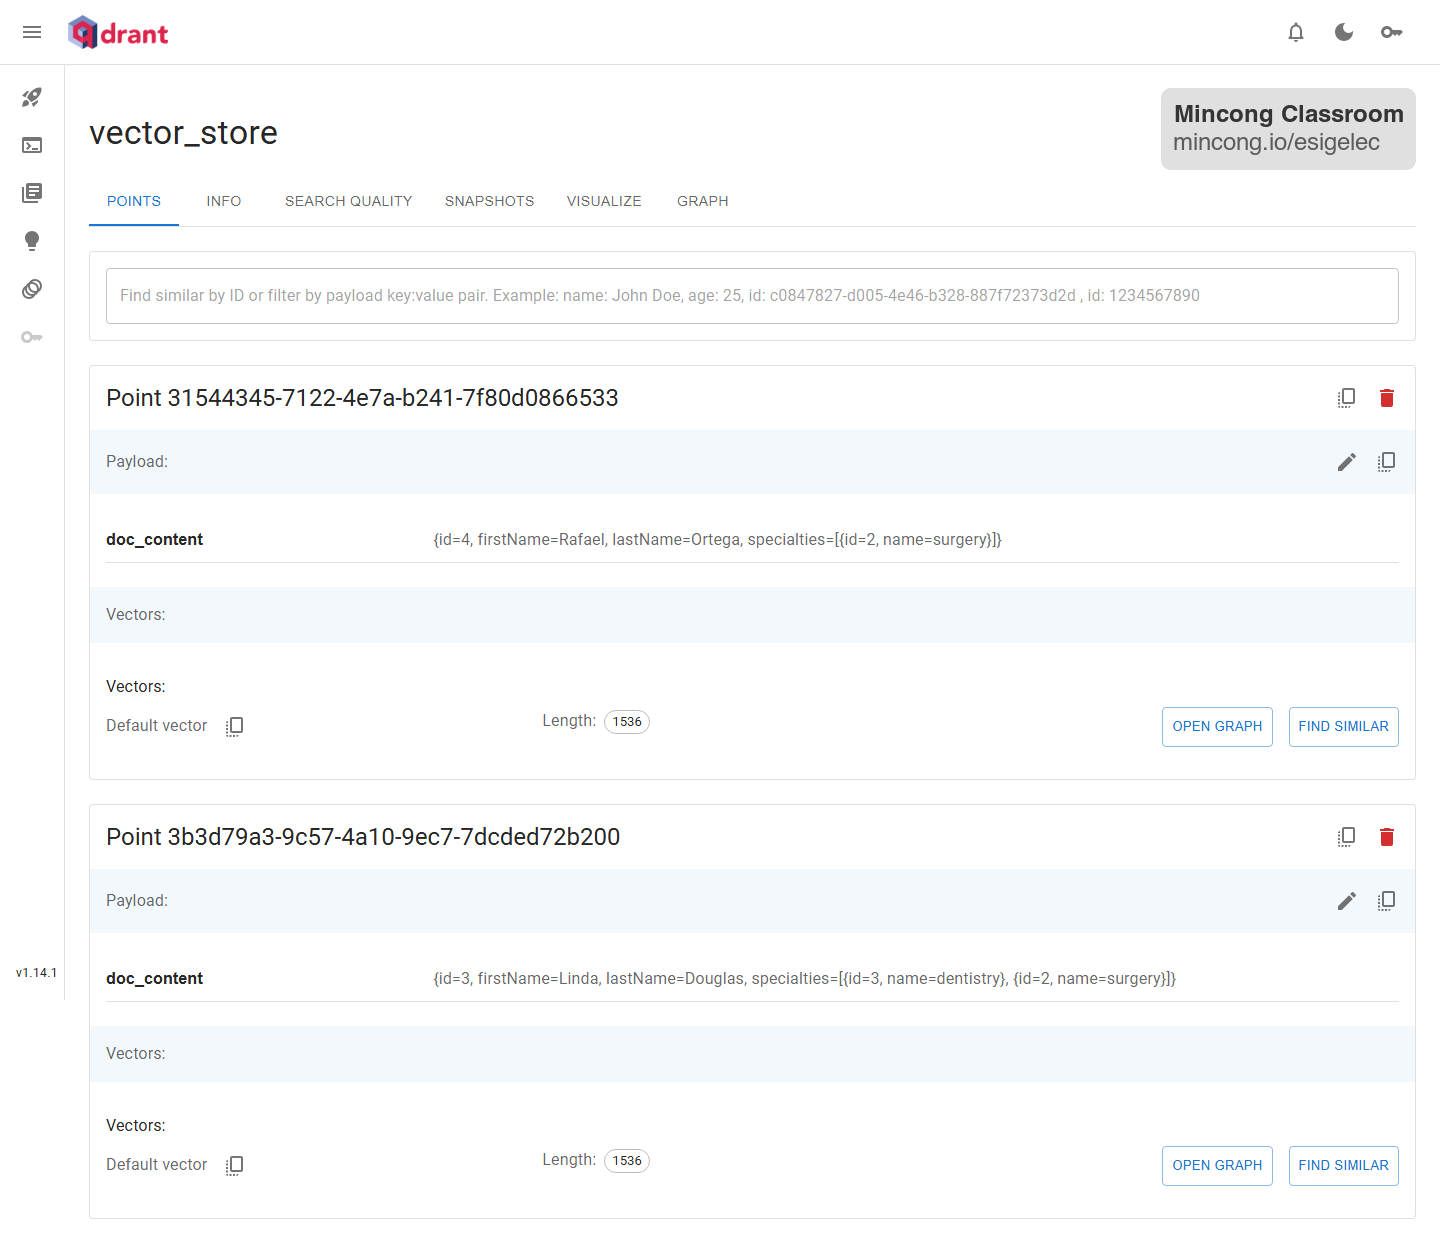
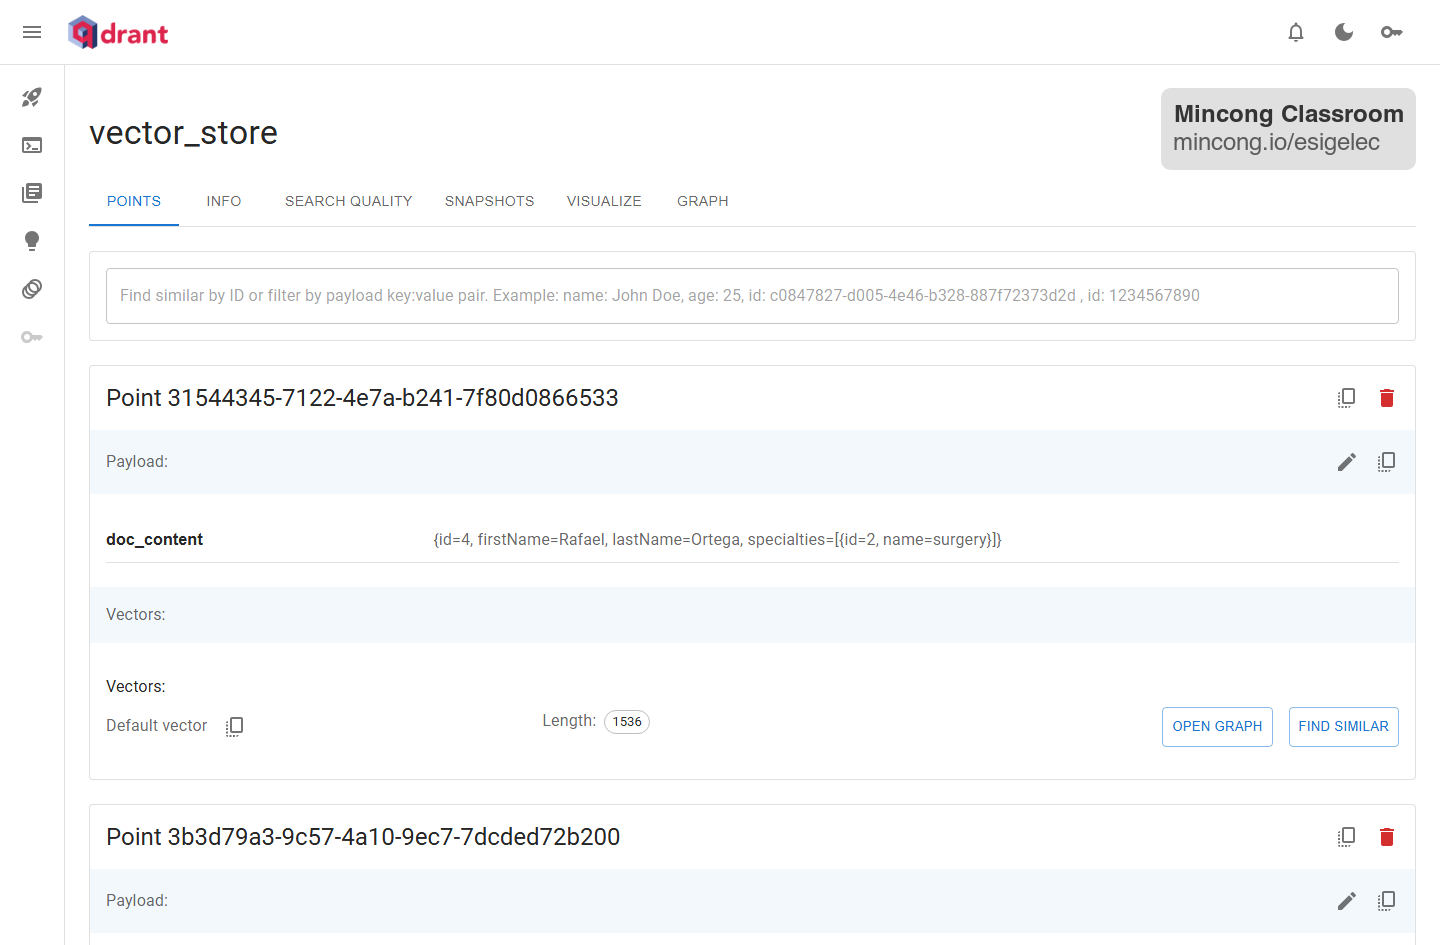
Show the second point of Qdrant only up to its payload in Figure 11 of the ESIGELEC Kubernetes 2026 Recap
The figure took a lot of space for 2 points with the same layout. It now
stops after the "Payload:" of the second point: the readers still see
that the collection has several points, without the details of the
second one. The watermark stays in the top right corner.

diff --git a/_posts/2026-11-08-esigelec-kubernetes-2026.md b/_posts/2026-11-08-esigelec-kubernetes-2026.md
@@ -341,7 +341,7 @@ And then the second example is here, with the trace where you can see that the t
 
 <p align="center">
 
-  <img alt="The web UI of Qdrant of the team olive: the collection vector_store lists the vets Rafael Ortega (surgery) and Linda Douglas (dentistry, surgery), each with a vector of 1536 numbers and the buttons Open Graph and Find Similar"
+  <img alt="The web UI of Qdrant of the team olive: the collection vector_store lists the vet Rafael Ortega (surgery), with a vector of 1536 numbers and the buttons Open Graph and Find Similar, then the beginning of a second point"
        src="/assets/2026/olive-qdrant-points.png">
 
   <figcaption>Figure 11: The web UI of Qdrant of the team "olive": the vets of the PetClinic stored as vectors, each with a button "Find Similar"</figcaption>
